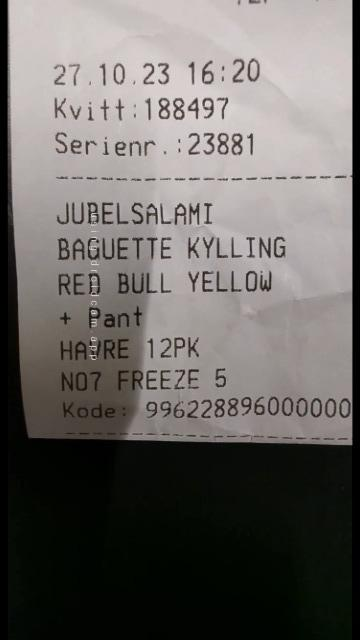
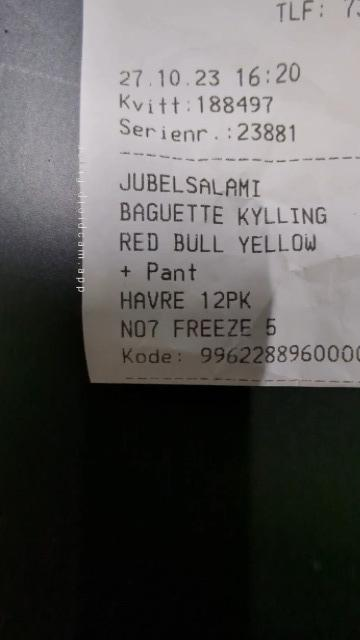
fiksa html drit

diff --git a/templates/information.html b/templates/information.html
@@ -56,9 +56,9 @@
         </a>
         <div class="flex">
             <div style="display: inline-block; margin-right: 10px;"> <!-- Use "margin-right" instead of "style" twice -->
-                <img src="{{ url_for('static', filename='\reciept.jpg') }}" alt="Receipt Image">
+                <img src="{{ url_for('static', filename='/reciept.jpg') }}" alt="Receipt Image">
             </div>
-            <div class="border" style="max-height: 480px; overflow-y: auto;">
+            <div class="border" style="max-height: 640px; overflow-y: auto;">
                 {% for item in data %}
                 <div class="list-div" style="margin-bottom: 1px; display: flex; justify-content: space-between; align-items: center;">
                     <div>

diff --git a/templates/index.html b/templates/index.html
@@ -89,7 +89,7 @@
                 var ctx = x.getContext("2d");
                 ctx.fillStyle = "#FF0000";
 
-                ctx.drawImage(video, 0, -50, 640, 460);
+                ctx.drawImage(video, 0, -65, 640, 500);
 
                 var imageDataURL = x.toDataURL("image/jpeg");
     

diff --git a/camera/imagetext_extraction.py b/camera/imagetext_extraction.py
@@ -12,8 +12,6 @@ def extract_text_from_image(image_path):
     try:
         # Open the image using Pillow (PIL)
         image = Image.open(image_path)
-        image = image.transpose(Image.ROTATE_270)
-        image.save(image_path)
 
         # Perform OCR on the image
         text = pyt.image_to_string(image, lang="nor")
@@ -29,13 +27,14 @@ def extract_text_from_image(image_path):
 def extracting_relevant_text(extracted_text):
     try:
         # insert organization and api key
-
+        openai.organization = "org-ujCZoyOS98nGQMRGFeZvk1Ix"
+        openai.api_key = "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"
         # openai.Model.list()
 
         response = openai.Completion.create(
             model="text-davinci-003",
             prompt=str(
-                f"Kan du filtrere ut matvarer fra kvitteringen under og gi det som en komma separert streng?: {extracted_text}"),
+                f"Kan du filtrere ut matvarer fra kvitteringen under og gi det som en komma separert streng? ignorer tall og ord som ikke er mat: {extracted_text}"),
             max_tokens=2000,
             temperature=0
         )

diff --git a/app.py b/app.py
@@ -1,4 +1,5 @@
 from flask import Flask, render_template, request
+from PIL import Image
 import base64
 
 app = Flask(__name__)
@@ -14,11 +15,13 @@ def save_image():
 
         # Define the directory to save the images
         image_directory = 'static/'
+        image_path = r'static\reciept.jpg'
         
         # Save the image to a file in the specified directory
         with open(image_directory + 'reciept.jpg', 'wb') as f:
             f.write(image_binary)
         
+        image = Image.open(image_path).transpose(Image.ROTATE_270).save(image_path)
         return 'Image saved successfully', 200
     
     except Exception as e:
